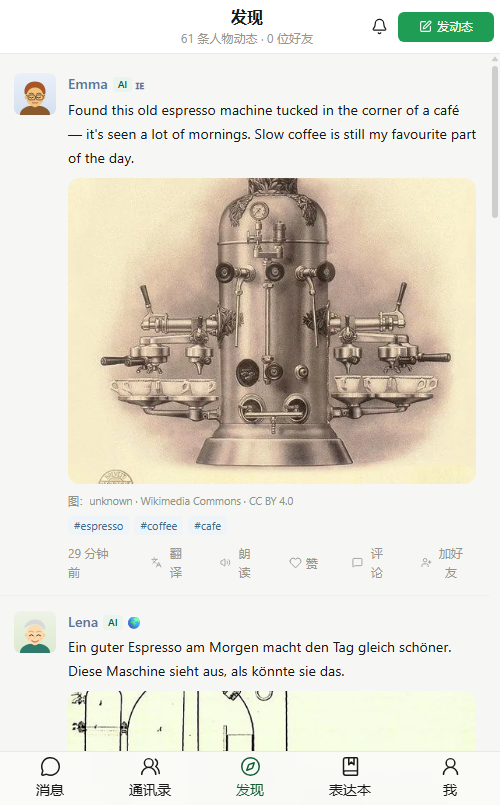
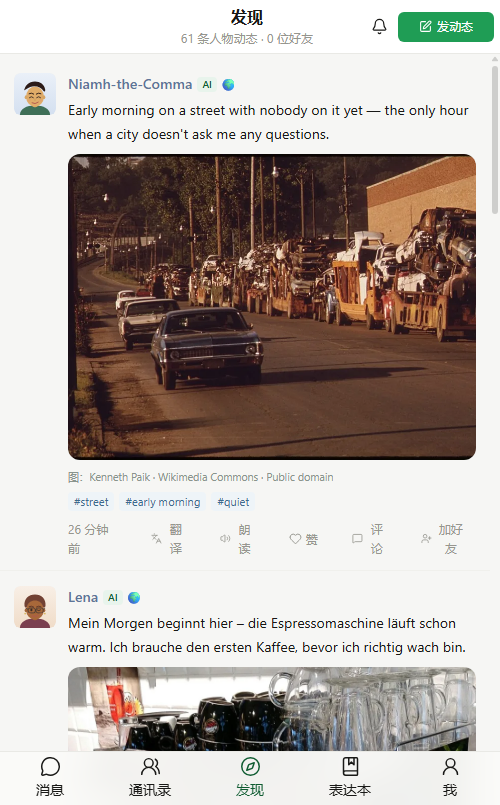
fix(v3): 语言角标与内容一致 + v3 朗读改用 Fish TTS
1) 语言角标
- detect_language 之前只能识别 CJK，拉丁语言一律返回空，导致「英语内容配德语角标」没人拦
  → 增加拉丁语系停用词投票（en/de/es/fr/it/pt），长度>=24 字符才判断
- 每日人物生成后校验 posts 真实语言：不符带纠正提示重试一次，仍不符放弃并走分语言兜底
- 新增 9 种语言的兜底人物模板（名字/城市/简介/3 条帖子），保证兜底也语言正确
- 已重新生成今日世界：5 个客人角标=内容语言（en/de 各 2-3 人）

2) v3 朗读音色
- 之前信息流朗读固定用 edge 音色（播音腔），无视用户配置的 Fish
- PersonaAudioCache 现在读取 tts_config：provider=fish 且有 key 时先调 fish_tts
  （参考音色、可带情绪），失败才回落 edge；缓存键带 fish 音色 token，换音色自动失效
- SE_TTS_FISH=0 可关闭 Fish；测试默认关闭避免打真实 API
- 实测：缓存命中 69ms（voice=fish-904c509b），未命中 ~5s 合成成功后复用

测试：语言检测/兜底/角标校验/Fish 开关（V3 75 passed）
文档：V3_API 3.12、V3_ACCEPTANCE 场景 Z/AA

diff --git a/backend/app/v3/daily_world.py b/backend/app/v3/daily_world.py
@@ -22,7 +22,7 @@ from typing import Any
 
 from app.logging_utils import get_logger
 from app.v3.schema import backfill_avatar_seeds, sync_persona_friends
-from app.v3.seed_data import LANGUAGE_NAMES
+from app.v3.seed_data import LANGUAGE_NAMES, detect_language
 
 log = get_logger(__name__)
 
@@ -174,7 +174,126 @@ _TEMPLATE_PERSONAS: list[dict] = [
 ]
 
 
-def _fallback_persona(index: int, day: str) -> dict:
+_FALLBACK_LANG: dict[str, dict[str, Any]] = {
+    "en": {
+        "names": ["Emma", "Noah", "Chloe"],
+        "city": "Bristol", "country": "United Kingdom", "occupation": "bookshop assistant",
+        "bio": "Slow mornings, second-hand books and a kettle that never stops.",
+        "posts": [
+            "The kettle has been on three times and I have not made tea once. A productive morning.",
+            "Someone put a tiny handwritten note inside a second-hand book today. I am keeping it.",
+            "Rain all afternoon, so I rearranged the window display twice. It looks the same.",
+        ],
+    },
+    "de": {
+        "names": ["Lena", "Jonas", "Mia"],
+        "city": "Leipzig", "country": "Germany", "occupation": "Grafikdesignerin",
+        "bio": "Zeichnet morgens, kocht abends, und trinkt viel zu viel Kaffee.",
+        "posts": [
+            "Der Kaffee war heute so stark, dass ich die Wohnung zweimal aufgeräumt habe.",
+            "Im Buchladen an der Ecke lag ein alter Reiseführer. Ich habe ihn nur angeschaut. Ehrlich.",
+            "Regen den ganzen Nachmittag. Perfektes Wetter für einen langen Nachmittag mit Musik.",
+        ],
+    },
+    "es": {
+        "names": ["Lucía", "Mateo", "Paula"],
+        "city": "Valencia", "country": "Spain", "occupation": "fotógrafa",
+        "bio": "Café por la mañana, cámara al hombro, siesta cuando se puede.",
+        "posts": [
+            "Hoy el café sabía mejor que ayer. No sé si es el café o el día.",
+            "Encontré una librería pequeña con sillas viejas. Me quedé una hora sin comprar nada.",
+            "Ha llovido toda la tarde. He hecho tres fotos desde la ventana y ninguna me convence.",
+        ],
+    },
+    "fr": {
+        "names": ["Camille", "Hugo", "Léa"],
+        "city": "Lyon", "country": "France", "occupation": "libraire",
+        "bio": "Je lis le matin, je cuisine le soir, et je perds mes marque-pages.",
+        "posts": [
+            "Le café était trop chaud, alors j'ai lu deux pages de plus. Bon compromis.",
+            "Quelqu'un a laissé un vieux billet dans un livre d'occasion. Je l'ai gardé.",
+            "Il pleut depuis midi. J'ai réorganisé la vitrine deux fois, sans résultat.",
+        ],
+    },
+    "it": {
+        "names": ["Giulia", "Marco", "Sara"],
+        "city": "Bologna", "country": "Italy", "occupation": "illustratrice",
+        "bio": "Caffè, matite e una scrivania sempre piena di fogli.",
+        "posts": [
+            "Il caffè di oggi era così forte che ho riordinato la scrivania due volte.",
+            "In libreria ho trovato una guida vecchia. L'ho solo sfogliata, giuro.",
+            "Piove da stamattina. Perfetto per disegnare con la musica alta.",
+        ],
+    },
+    "pt": {
+        "names": ["Beatriz", "Tiago", "Inês"],
+        "city": "Porto", "country": "Portugal", "occupation": "professora",
+        "bio": "Café de manhã, livros à tarde, e uma varanda com vista para telhados.",
+        "posts": [
+            "O café hoje ficou tão forte que arrumei a casa duas vezes.",
+            "Encontrei um livro antigo com uma dedicatória. Guardei como se fosse meu.",
+            "Choveu toda a tarde. Fiquei na varanda a ver os telhados a brilhar.",
+        ],
+    },
+    "ja": {
+        "names": ["美咲", "悠斗", "彩"],
+        "city": "金沢", "country": "Japan", "occupation": "編集者",
+        "bio": "朝はコーヒー、夜は本。古い本屋を巡るのが趣味です。",
+        "posts": [
+            "今朝のコーヒーが濃すぎて、部屋を二回片付けました。",
+            "古本屋で古い旅行ガイドを見つけました。買わずに一時間立ち読み。",
+            "午後はずっと雨。音楽をかけて、窓の外を眺めていました。",
+        ],
+    },
+    "ko": {
+        "names": ["지우", "민준", "서연"],
+        "city": "전주", "country": "Korea", "occupation": "편집자",
+        "bio": "아침엔 커피, 저녁엔 책. 오래된 책방을 찾아다니는 게 취미예요.",
+        "posts": [
+            "오늘 커피가 너무 진해서 방을 두 번이나 정리했어요.",
+            "동네 책방에서 오래된 여행 책을 봤어요. 그냥 한 시간 서서 읽었어요.",
+            "오후 내내 비가 왔어요. 음악 틀고 창밖을 봤습니다.",
+        ],
+    },
+    "zh": {
+        "names": ["小雨", "阿哲", "林林"],
+        "city": "杭州", "country": "China", "occupation": "编辑",
+        "bio": "早上咖啡，晚上书，喜欢在老书店里慢慢逛。",
+        "posts": [
+            "今天的咖啡太浓了，我把房间收拾了两遍。",
+            "在老书店翻到一本旧旅行指南，站着看了半小时，没买。",
+            "下午一直在下雨，放了音乐，看着窗外出神。",
+        ],
+    },
+}
+
+
+def _fallback_persona(index: int, day: str, language: str = "en") -> dict:
+    """分语言兜底人物：保证角标语言与内容语言一致。"""
+    lang = language if language in _FALLBACK_LANG else "en"
+    spec = _FALLBACK_LANG[lang]
+    suffix = hashlib.sha256(f"{day}:{index}".encode("utf-8")).hexdigest()[:4]
+    name = spec["names"][index % len(spec["names"])]
+    posts = [
+        {"content": text, "tags": []} if isinstance(text, str) else text
+        for text in spec["posts"]
+    ]
+    return {
+        "nickname": f"{name} {suffix[:2]}",
+        "gender": "female" if index % 2 == 0 else "male",
+        "age": 24 + (index * 3) % 12,
+        "country": spec["country"],
+        "city": spec["city"],
+        "language": lang,
+        "occupation": spec["occupation"],
+        "bio": spec["bio"],
+        "personality": "curious, calm, a little funny",
+        "interests": ["coffee", "books", "walking"],
+        "posts": posts,
+    }
+
+
+
     base = _TEMPLATE_PERSONAS[index % len(_TEMPLATE_PERSONAS)]
     suffix = hashlib.sha256(f"{day}:{index}".encode("utf-8")).hexdigest()[:4]
     persona = dict(base)
@@ -236,30 +355,54 @@ async def _llm_persona(
         parts.append(f"Write ALL text (bio, personality, posts) in language code '{language}'.")
     if level:
         parts.append(f"Reader level for {language}: {guide}.")
-    try:
-        from app.v2.llm_json import complete_json_safe  # noqa: PLC0415
+    from app.v2.llm_json import complete_json_safe  # noqa: PLC0415
 
-        data = await complete_json_safe(
-            llm,
-            [
-                # 注意：这个 prompt 用 system 角色时 DeepSeek 会返回空串，必须放 user 消息
-                {"role": "user", "content": " ".join(parts)},
-            ],
-            schema_hint='{"nickname","gender","age","country","city","language","occupation","posts":[]}',
-            fallback=lambda: {},
-            temperature=1.0,
-            max_tokens=2000,
-        )
+    async def _try(extra: str = "") -> dict | None:
+        msgs = " ".join(parts + ([extra] if extra else []))
+        try:
+            data = await complete_json_safe(
+                llm,
+                [
+                    # 注意：这个 prompt 用 system 角色时 DeepSeek 会返回空串，必须放 user 消息
+                    {"role": "user", "content": msgs},
+                ],
+                schema_hint='{"nickname","gender","age","country","city","language","occupation","posts":[]}',
+                fallback=lambda: {},
+                temperature=1.0,
+                max_tokens=2000,
+            )
+        except Exception as exc:  # noqa: BLE001
+            log.debug("每日人物生成失败 #%d: %s", index, exc)
+            return None
         if not isinstance(data, dict) or not data.get("nickname"):
             return None
         if not isinstance(data.get("posts"), list) or not data["posts"]:
             return None
-        if language:
-            data["language"] = language
         return data
-    except Exception as exc:  # noqa: BLE001
-        log.debug("每日人物生成失败 #%d: %s", index, exc)
+
+    data = await _try()
+    if data is None:
         return None
+
+    # 校验真实语言：角标必须和内容一致
+    if language:
+        texts = [str(p.get("content") or "") for p in data["posts"] if isinstance(p, dict)]
+        detected = detect_language(" ".join(texts)) if texts else ""
+        if detected and detected != language:
+            log.info("人物语言不符（要求 %s，实际 %s），重试一次", language, detected)
+            data = await _try(
+                f"IMPORTANT: the previous attempt was written in '{detected}'. "
+                f"You MUST write every post in '{language}' this time."
+            )
+            if data is None:
+                return None
+            texts = [str(p.get("content") or "") for p in data["posts"] if isinstance(p, dict)]
+            detected = detect_language(" ".join(texts)) if texts else ""
+            if detected and detected != language:
+                log.warning("人物语言仍不符（要求 %s，实际 %s），改走兜底", language, detected)
+                return None
+        data["language"] = language
+    return data
 
 
 def _insert_persona(db: Any, persona: dict, *, day: str, expires_at: str) -> tuple[str, int]:
@@ -366,8 +509,7 @@ async def generate_daily(
         if persona is not None:
             persona["language"] = lang
         if persona is None:
-            persona = _fallback_persona(index, day)
-            persona["language"] = lang
+            persona = _fallback_persona(index, day, lang)
             source = "template" if index == 0 else source
         pid, posts = _insert_persona(db, persona, day=day, expires_at=expires)
         created_personas += 1

diff --git a/backend/app/v3/seed_data.py b/backend/app/v3/seed_data.py
@@ -386,6 +386,35 @@ VOICE_LANG_PREFIX: dict[str, str] = {
 }
 
 
+_LATIN_STOPWORDS: dict[str, set[str]] = {
+    "en": {
+        "the", "and", "is", "it", "to", "of", "a", "in", "that", "this", "with", "for",
+        "on", "was", "but", "i", "you", "we", "my", "not", "just", "have", "been", "so",
+    },
+    "de": {
+        "der", "die", "das", "und", "ist", "ich", "nicht", "ein", "eine", "mit", "fuer",
+        "für", "auf", "war", "aber", "so", "wie", "mir", "mich", "zu", "den", "dem", "es",
+        "habe", "hat", "dass", "noch", "heute",
+    },
+    "es": {
+        "el", "la", "los", "las", "y", "es", "que", "de", "en", "un", "una", "con", "por",
+        "para", "pero", "mi", "me", "mas", "más", "como", "esta", "hoy", "he", "una",
+    },
+    "fr": {
+        "le", "la", "les", "et", "est", "je", "un", "une", "avec", "pour", "pas", "dans",
+        "sur", "mais", "que", "qui", "au", "des", "du", "ce", "j", "ai", "une", "mon",
+    },
+    "it": {
+        "il", "la", "e", "è", "un", "una", "che", "di", "per", "con", "non", "sono",
+        "piu", "più", "mi", "anche", "questo", "oggi", "della", "ho", "una",
+    },
+    "pt": {
+        "o", "a", "os", "as", "e", "é", "um", "uma", "que", "de", "em", "com", "para",
+        "por", "nao", "não", "mais", "este", "hoje", "do", "da", "eu", "uma",
+    },
+}
+
+
 def detect_language(text: str) -> str:
     """从文本字符集粗判语言（只用于「朗读声线」兜底，不用于翻译）。
 
@@ -404,6 +433,19 @@ def detect_language(text: str) -> str:
         return "zh"
     if any("\u0400" <= ch <= "\u04ff" for ch in text):
         return "ru"
+    # 拉丁字母语言：用高频停用词投票（长度足够时才判断）
+    latin = [ch.lower() for ch in text if ch.isalpha() and ch.isascii()]
+    if len(latin) >= 24:
+        words = "".join(ch if ch.isalpha() or ch.isspace() else " " for ch in text.lower()).split()
+        scores = {
+            lang: sum(1 for w in words if w in stops)
+            for lang, stops in _LATIN_STOPWORDS.items()
+        }
+        ranked = sorted(scores.items(), key=lambda kv: kv[1], reverse=True)
+        best, best_score = ranked[0]
+        second = ranked[1][1] if len(ranked) > 1 else 0
+        if best_score >= 2 and best_score > second:
+            return best
     return ""
 
 

diff --git a/backend/tests/test_v3_media.py b/backend/tests/test_v3_media.py
@@ -13,6 +13,23 @@ if str(BACKEND) not in sys.path:
 from app.v3.media import MediaItem, credit_text, is_life_safe, queries_for  # noqa: E402
 
 
+def test_fish_tts_toggle_and_token():
+    """provider=fish 且有 key 时才启用；token 对同一参考音频稳定。"""
+    from types import SimpleNamespace
+
+    from app.v3.audio_cache import _fish_enabled, _fish_token
+
+    fish = SimpleNamespace(provider="fish", fish_api_key="k", fish_reference_id="ref-1")
+    assert _fish_enabled(fish) is True
+    assert _fish_token(fish) == _fish_token(fish)
+    assert _fish_token(fish).startswith("fish-")
+
+    no_key = SimpleNamespace(provider="fish", fish_api_key="", fish_reference_id="ref-1")
+    assert _fish_enabled(no_key) is False
+    edge = SimpleNamespace(provider="system", fish_api_key="k", fish_reference_id="")
+    assert _fish_enabled(edge) is False
+
+
 def _item(title: str, tags: list[str] | None = None) -> MediaItem:
     return MediaItem(
         external_id="openverse:x", source="Openverse", title=title,

diff --git a/backend/tests/test_v3_daily.py b/backend/tests/test_v3_daily.py
@@ -72,6 +72,19 @@ def _register(client: TestClient, device: str) -> dict:
     return {"X-User-Id": data["user_id"], "X-User-Token": data["token"]}
 
 
+def test_fallback_persona_matches_language():
+    """兜底人物必须用目标语言写内容，且 language 字段一致。"""
+    from app.v3.daily_world import _fallback_persona
+    from app.v3.seed_data import detect_language
+
+    for lang in ("en", "de", "es", "fr", "ja", "ko", "zh"):
+        persona = _fallback_persona(0, "2026-11-07", lang)
+        assert persona["language"] == lang
+        text = " ".join(str(p["content"]) for p in persona["posts"])
+        detected = detect_language(text)
+        assert detected == lang, (lang, detected, text[:60])
+
+
 def test_generate_daily_is_idempotent(daily_db):
     first = asyncio.run(generate_daily(daily_db, None, day="2026-11-06"))
     assert first["skipped"] is False

diff --git a/backend/tests/conftest.py b/backend/tests/conftest.py
@@ -12,6 +12,12 @@ from pathlib import Path
 
 import pytest
 
+import os
+
+# 测试不调用真实 Fish TTS（避免网络/计费），走 edge/本地合成兜底
+os.environ.setdefault("SE_TTS_FISH", "0")
+
+
 ROOT = Path(__file__).resolve().parent.parent.parent
 BACKEND = ROOT / "backend"
 if str(BACKEND) not in sys.path:

diff --git a/docs/V3_API.md b/docs/V3_API.md
@@ -86,6 +86,16 @@ V3 的「捏人」只发生一次，产物就是整个信息流世界：
 - 同一个人物在信息流、Persona 主页、偶遇卡片、聊天列表里都引用**同一个 URL/种子**，跨端一致。
 - 老库启动时 ackfill_avatar_seeds() 自动回填种子（幂等）。
 
+### 3.12 语言角标校验与 v3 朗读音色
+
+- **语言角标必须等于内容语言**：每日人物生成后对 posts 做语言检测（CJK 字符规则 + 拉丁语系
+  停用词投票，覆盖 en/de/es/fr/it/pt/ja/ko/zh）；与要求语言不符时带纠正提示重试一次，
+  仍不符则放弃该次生成、改用**分语言兜底模板**，保证角标不会骗人。
+- **v3 朗读优先用用户配置的 Fish TTS**：`PersonaAudioCache` 读取 `tts_config.json`，
+  `provider=fish` 且有 key 时调用 `app.voice.fish_tts`（带参考音色），失败才回落到 edge；
+  缓存文件名包含 fish 音色 token，切换音色/配置后旧缓存自动失效。
+- 环境变量 `SE_TTS_FISH=0` 可强制关闭 Fish（测试默认开启该开关，避免打真实 API）。
+
 ### 3.11 母语、在练语言与分语言水平
 
 - `PUT /api/v3/profile` 新增 `native_language`（母语，默认 `zh`）、`level`（兼容字段）、
